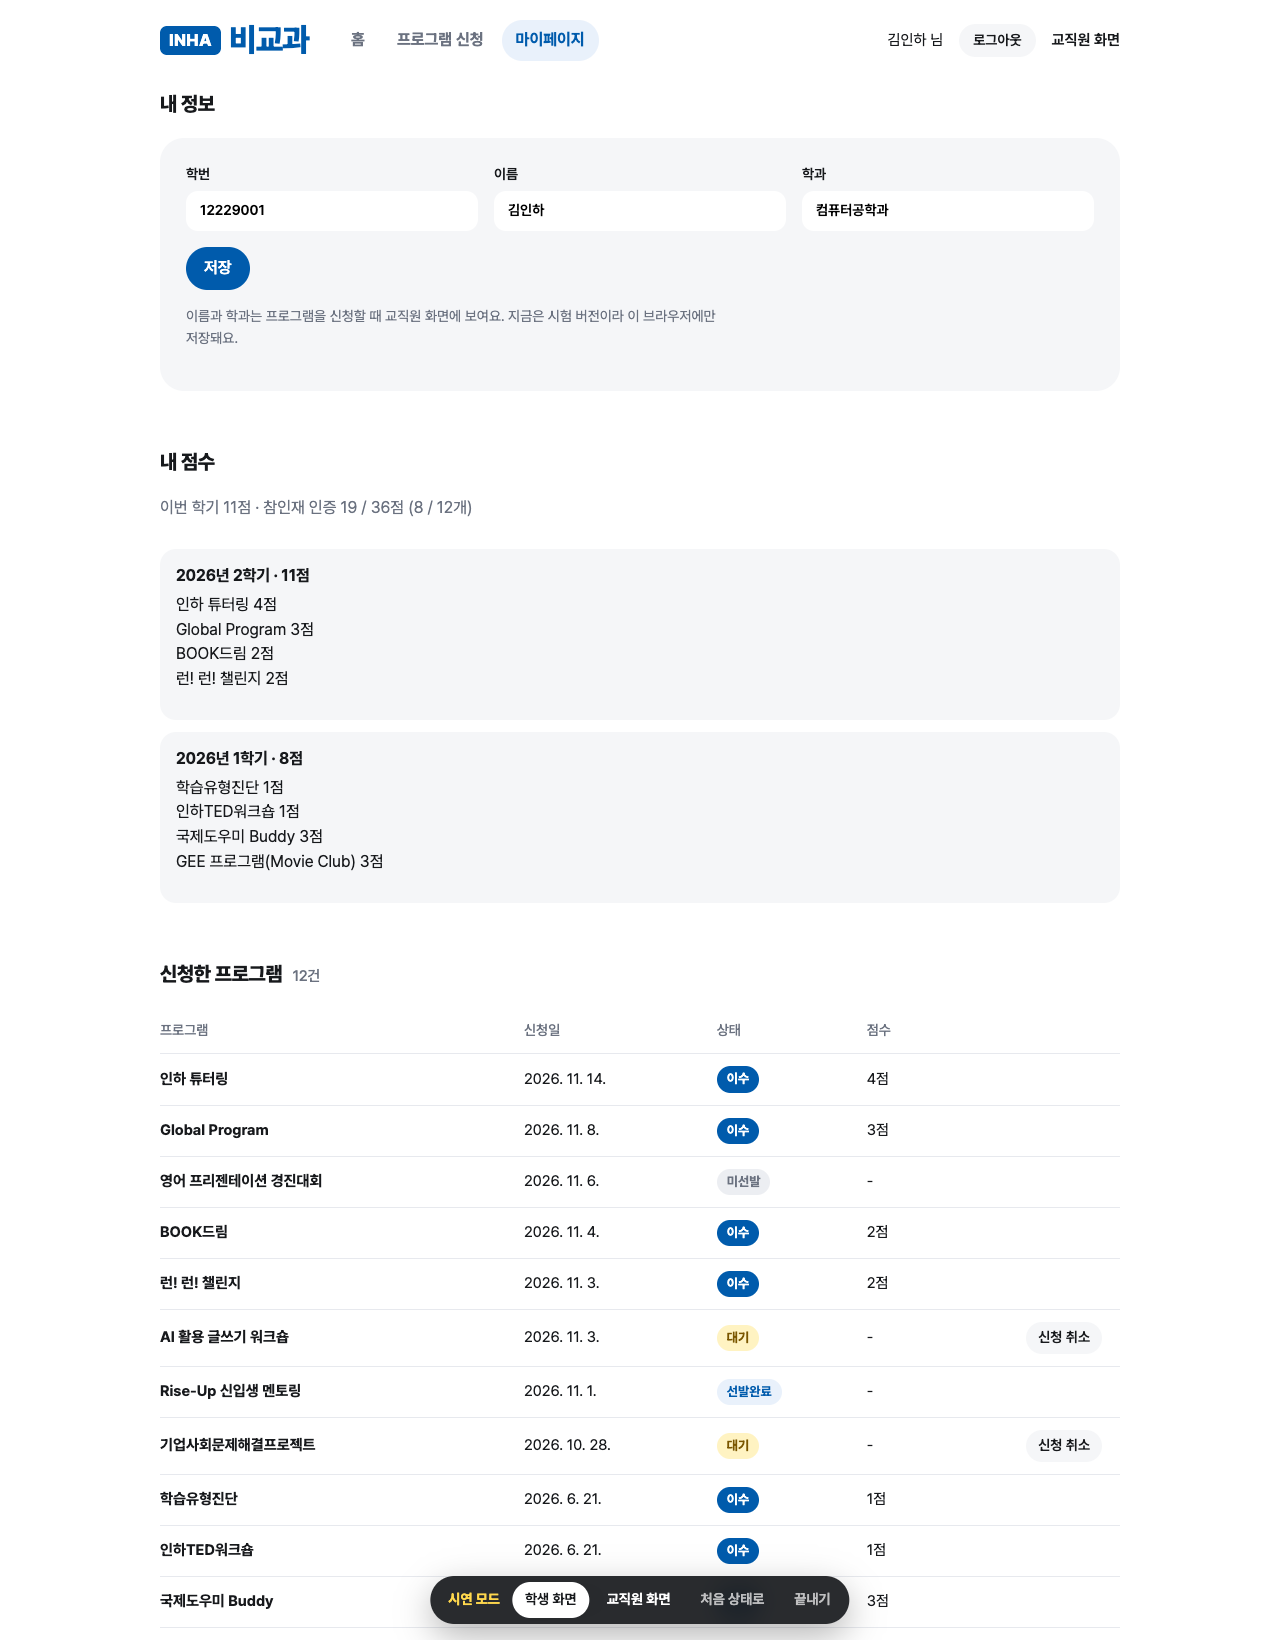
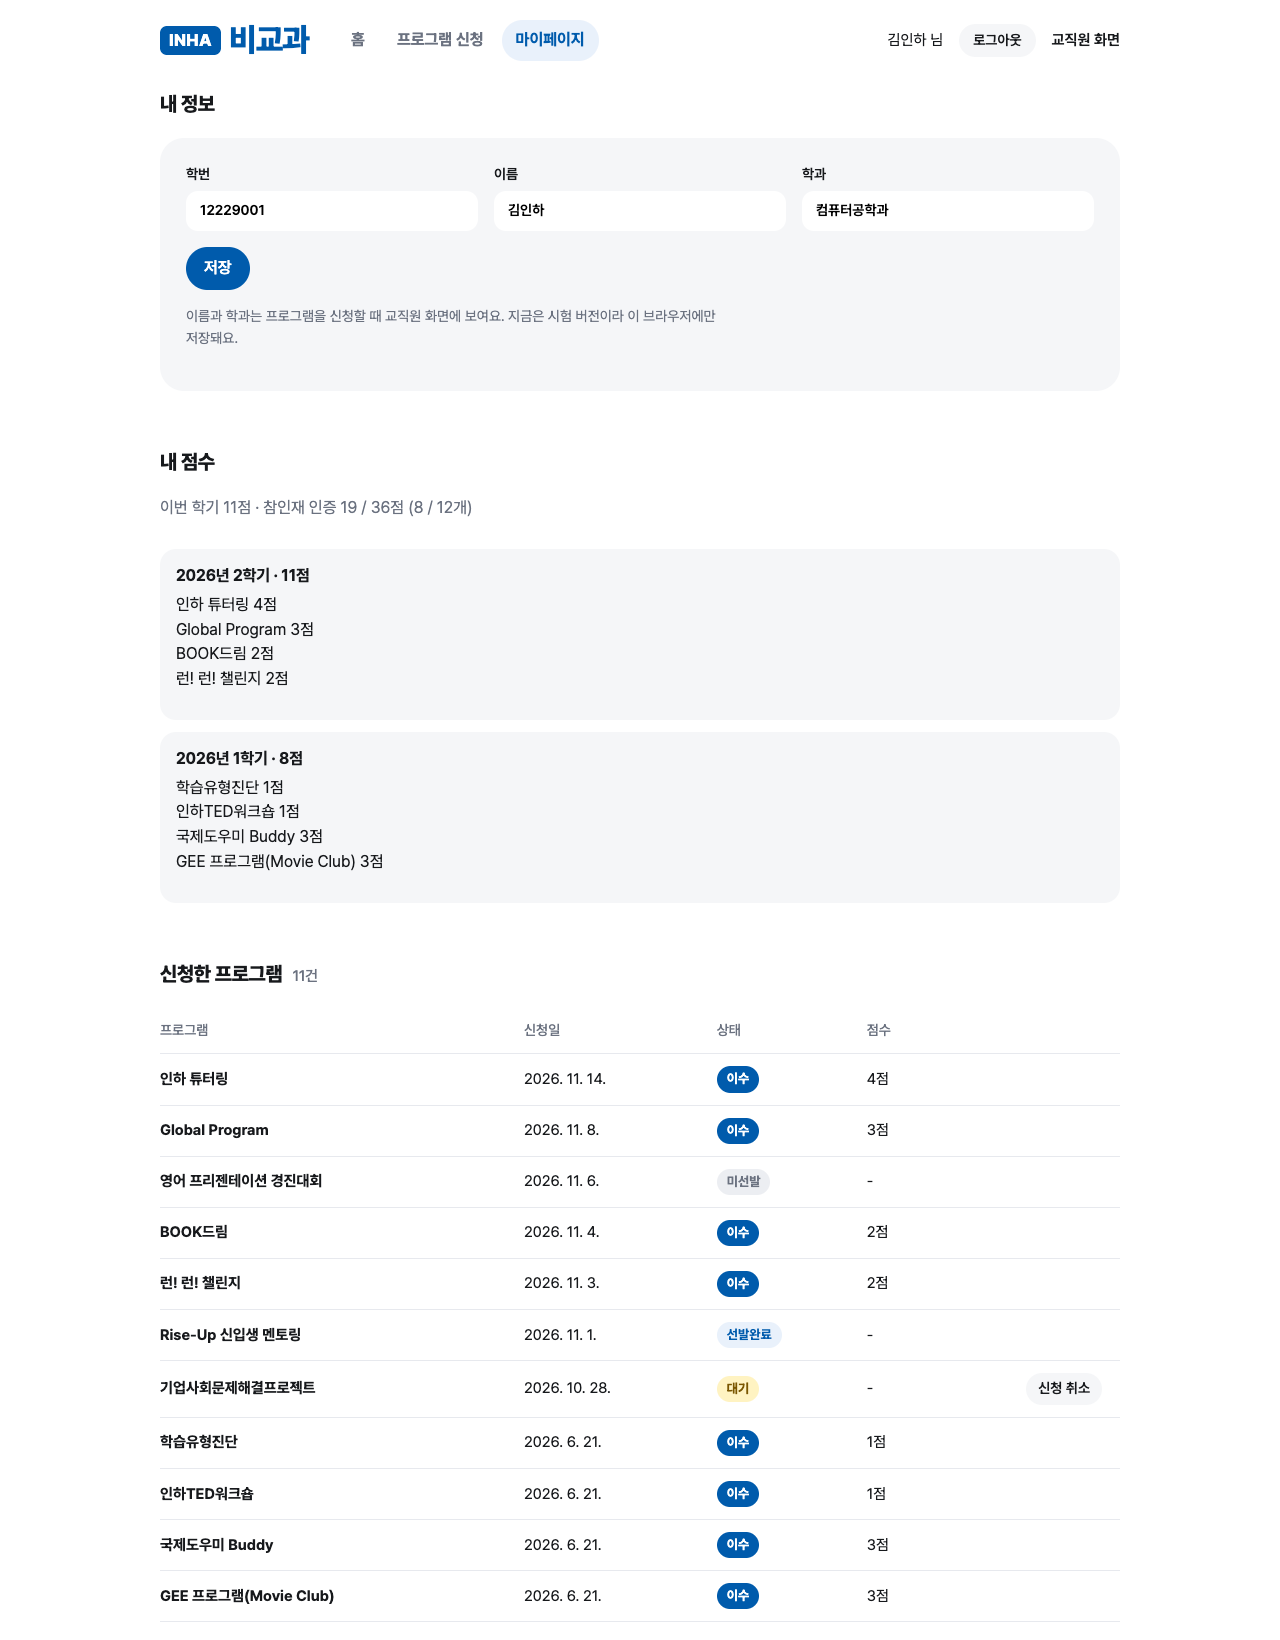
style: 화면 아래 시연 막대 삭제 (화면 전환은 위쪽 줄 링크로)

Changed region(s): [[0.3125, 0.8085, 0.6875, 1.0], [0.125, 0.8085, 0.25, 0.9951], [0.8125, 0.8085, 0.8438, 0.9018]]

diff --git a/js/demo.js b/js/demo.js
@@ -1,5 +1,6 @@
-// 시연 도구 (data.js, logic.js 다음에 불러옴). 학교에 보여줄 때 텅 빈 화면 대신 그럴듯한 예시 데이터로 시작하고,
-// 아래쪽 막대로 학생 화면과 교직원 화면을 오갈 수 있게 함. 전부 이 브라우저에만 저장되는 지어낸 데이터.
+// 시연 도구 (data.js, logic.js 다음에 불러옴). 학교에 보여줄 때 텅 빈 화면 대신 그럴듯한 예시 데이터로 시작함.
+// 시연 학생과 시연 교직원으로 둘 다 로그인돼서, 위쪽 줄의 "교직원 화면" / "학생 화면"으로 오갈 수 있음.
+// 전부 이 브라우저에만 저장되는 지어낸 데이터.
 const DEMO_FLAG = 'inha-demo';
 const DEMO_STUDENT = '12229001';
 const DEMO_STAFF = '20190001';
@@ -84,35 +85,5 @@ function seedDemo() {
   set(CUSTOM_KEY, custom);
 }
 
-function endDemo() {
-  for (const key of [DEMO_FLAG, 'inha-session', 'inha-staff-session', 'inha-staff-profile', 'inha-profiles-v1', 'inha-apply-demo-v1', 'inha-team-posts-v1', CUSTOM_KEY]) localStorage.removeItem(key);
-}
-
-// 시연 중이면 화면 아래에 막대를 붙임 (로그인 화면 제외)
-(() => {
-  let on = false;
-  try { on = Boolean(localStorage.getItem(DEMO_FLAG)); } catch { /* 저장소를 못 쓰면 시연 도구 없음 */ }
-  if (!on || document.body.classList.contains('login')) return;
-  document.body.classList.add('demo');
-  const bar = document.createElement('aside');
-  bar.className = 'demo-bar';
-  bar.setAttribute('aria-label', '시연 도구');
-  const staffSide = location.pathname.endsWith('admin.html');
-  const link = (text, href, current) => {
-    const a = Object.assign(document.createElement('a'), { textContent: text, href });
-    if (current) a.setAttribute('aria-current', 'page');
-    return a;
-  };
-  const button = (text, onClick) => {
-    const b = Object.assign(document.createElement('button'), { type: 'button', textContent: text });
-    b.addEventListener('click', onClick);
-    return b;
-  };
-  bar.append(
-    Object.assign(document.createElement('strong'), { textContent: '시연 모드' }),
-    link('학생 화면', 'index.html', !staffSide),
-    link('교직원 화면', 'admin.html', staffSide),
-    button('처음 상태로', () => { if (confirm('예시 데이터를 처음 상태로 되돌릴까요?')) { seedDemo(); location.reload(); } }),
-    button('끝내기', () => { if (confirm('시연을 끝내고 예시 데이터를 모두 지울까요?')) { endDemo(); location.href = 'login.html'; } }));
-  document.body.append(bar);
-})();
+// 시연 중이면 "시험 버전" 안내문을 숨김 (css의 body.demo). 직접 로그인하면 시연이 끝남(login.html).
+try { if (localStorage.getItem(DEMO_FLAG) && !document.body.classList.contains('login')) document.body.classList.add('demo'); } catch { /* 저장소를 못 쓰면 그대로 */ }

diff --git a/css/style.css b/css/style.css
@@ -238,16 +238,8 @@ tbody tr:hover { background: #fafbfc; }
 #message:empty { display: none; }
 @keyframes drop { from { opacity: 0; transform: translate(-50%, -10px); } }
 
-/* 시연 막대 (js/demo.js) */
-body.demo { padding-bottom: 76px; }
+/* 시연 중에는 "시험 버전" 안내문을 숨김 (js/demo.js) */
 body.demo .notice:not(#demoBanner) { display: none; }
-.demo-bar { position: fixed; left: 50%; bottom: 16px; transform: translateX(-50%); z-index: 30; display: flex; align-items: center; gap: 4px; max-width: calc(100vw - 16px); background: rgb(23 25 28 / .92); color: #fff; border-radius: 999px; padding: 6px 6px 6px 18px; font-size: .875rem; box-shadow: 0 12px 34px rgb(0 0 0 / .28); backdrop-filter: blur(10px); white-space: nowrap; }
-.demo-bar strong { margin-right: 8px; color: #ffd84d; }
-.demo-bar a, .demo-bar button { color: #fff; text-decoration: none; font-weight: 600; font-size: .875rem; background: transparent; border-radius: 999px; padding: 7px 13px; }
-.demo-bar a[aria-current] { background: #fff; color: var(--ink); }
-.demo-bar button { color: rgb(255 255 255 / .7); }
-.demo-bar a:hover, .demo-bar button:hover { background: rgb(255 255 255 / .14); filter: none; }
-.demo-bar a[aria-current]:hover { background: #fff; }
 
 footer { border-top: 1px solid var(--ink); color: var(--sub); font-size: .8125rem; }
 footer div { max-width: 1000px; margin: 0 auto; padding: 28px 20px 48px; }
@@ -299,8 +291,6 @@ footer p { margin: 0 0 8px; max-width: 90ch; }
   .banners, .explains, .explains.two, .steps { grid-template-columns: 1fr; }
   .stats { grid-template-columns: 1fr 1fr; }
   .nav { padding: 10px 16px; margin: -10px -16px 12px; }
-  .demo-bar { padding-left: 12px; }
-  .demo-bar strong { display: none; }
   .menu { order: 3; width: 100%; margin: 0; }
   .shortcuts { grid-template-columns: repeat(4, 1fr); gap: 16px 4px; }
   .icon { width: 56px; height: 56px; }

diff --git a/login.html b/login.html
@@ -5,7 +5,7 @@
 <meta name="viewport" content="width=device-width, initial-scale=1">
 <title>로그인 · 인하 비교과 마일리지</title>
 <link rel="stylesheet" href="https://cdn.jsdelivr.net/gh/orioncactus/pretendard@v1.3.9/dist/web/variable/pretendardvariable-dynamic-subset.min.css">
-<link rel="stylesheet" href="css/style.css?v=28">
+<link rel="stylesheet" href="css/style.css?v=29">
 </head>
 <body class="login">
   <section class="login-art">
@@ -43,9 +43,9 @@
     </form>
   </main>
 
-<script src="js/data.js?v=28"></script>
-<script src="js/logic.js?v=28"></script>
-<script src="js/demo.js?v=28"></script>
+<script src="js/data.js?v=29"></script>
+<script src="js/logic.js?v=29"></script>
+<script src="js/demo.js?v=29"></script>
 <script>
   // shortcut: 진짜 로그인이 아님. 학번(교직원은 사번)만 이 브라우저에 기억하고 비밀번호는 버림. 이름·학과는 마이페이지에서 적음. 서버(Supabase)나 학교 로그인으로 바꿀 때 이 부분을 교체.
   const $ = (id) => document.getElementById(id);
@@ -58,7 +58,8 @@
   $('loginForm').addEventListener('submit', (e) => {
     e.preventDefault();
     const staff = document.querySelector('[name=who]:checked').value === 'staff';
-    try { localStorage.setItem(staff ? 'inha-staff-session' : 'inha-session', $('sid').value.trim()); } catch { /* 저장소를 못 써도 들어가게 함 */ }
+    // 직접 로그인하면 시연은 끝난 것으로 봄
+    try { localStorage.removeItem(DEMO_FLAG); localStorage.setItem(staff ? 'inha-staff-session' : 'inha-session', $('sid').value.trim()); } catch { /* 저장소를 못 써도 들어가게 함 */ }
     location.href = staff ? 'admin.html' : 'index.html';
   });
   // 둘러보기: 예시 데이터를 채우고 시연 학생·교직원으로 바로 들어감 (js/demo.js)

diff --git a/mypage.html b/mypage.html
@@ -5,7 +5,7 @@
 <meta name="viewport" content="width=device-width, initial-scale=1">
 <title>마이페이지 · 인하 비교과 마일리지</title>
 <link rel="stylesheet" href="https://cdn.jsdelivr.net/gh/orioncactus/pretendard@v1.3.9/dist/web/variable/pretendardvariable-dynamic-subset.min.css">
-<link rel="stylesheet" href="css/style.css?v=28">
+<link rel="stylesheet" href="css/style.css?v=29">
 </head>
 <body>
 <main class="my">
@@ -59,12 +59,12 @@
   <ul id="myComments" class="posts" aria-labelledby="comments-title"></ul>
   <p id="commentsEmpty" class="empty">아직 쓴 댓글이 없어요.</p>
 </main>
-<script src="js/data.js?v=28"></script>
-<script src="js/logic.js?v=28"></script>
-<script src="js/demo.js?v=28"></script>
-<script src="js/config.js?v=28"></script>
-<script src="js/board.js?v=28"></script>
-<script src="js/common.js?v=28"></script>
-<script src="js/mypage.js?v=28"></script>
+<script src="js/data.js?v=29"></script>
+<script src="js/logic.js?v=29"></script>
+<script src="js/demo.js?v=29"></script>
+<script src="js/config.js?v=29"></script>
+<script src="js/board.js?v=29"></script>
+<script src="js/common.js?v=29"></script>
+<script src="js/mypage.js?v=29"></script>
 </body>
 </html>

diff --git a/programs.html b/programs.html
@@ -5,7 +5,7 @@
 <meta name="viewport" content="width=device-width, initial-scale=1">
 <title>프로그램 신청 · 인하 비교과 마일리지</title>
 <link rel="stylesheet" href="https://cdn.jsdelivr.net/gh/orioncactus/pretendard@v1.3.9/dist/web/variable/pretendardvariable-dynamic-subset.min.css">
-<link rel="stylesheet" href="css/style.css?v=28">
+<link rel="stylesheet" href="css/style.css?v=29">
 </head>
 <body>
 <main>
@@ -53,12 +53,12 @@
       확정 마일리지는 인하포털 → 학사행정 → 비교과과정에서 확인하세요.</p>
   </div>
 </footer>
-<script src="js/data.js?v=28"></script>
-<script src="js/logic.js?v=28"></script>
-<script src="js/demo.js?v=28"></script>
-<script src="js/config.js?v=28"></script>
-<script src="js/board.js?v=28"></script>
-<script src="js/common.js?v=28"></script>
-<script src="js/programs.js?v=28"></script>
+<script src="js/data.js?v=29"></script>
+<script src="js/logic.js?v=29"></script>
+<script src="js/demo.js?v=29"></script>
+<script src="js/config.js?v=29"></script>
+<script src="js/board.js?v=29"></script>
+<script src="js/common.js?v=29"></script>
+<script src="js/programs.js?v=29"></script>
 </body>
 </html>

diff --git a/index.html b/index.html
@@ -5,7 +5,7 @@
 <meta name="viewport" content="width=device-width, initial-scale=1">
 <title>인하 비교과 마일리지</title>
 <link rel="stylesheet" href="https://cdn.jsdelivr.net/gh/orioncactus/pretendard@v1.3.9/dist/web/variable/pretendardvariable-dynamic-subset.min.css">
-<link rel="stylesheet" href="css/style.css?v=28">
+<link rel="stylesheet" href="css/style.css?v=29">
 </head>
 <body>
 <main>
@@ -163,12 +163,12 @@
       확정 마일리지는 인하포털 → 학사행정 → 비교과과정에서 확인하세요.</p>
   </div>
 </footer>
-<script src="js/data.js?v=28"></script>
-<script src="js/logic.js?v=28"></script>
-<script src="js/demo.js?v=28"></script>
-<script src="js/config.js?v=28"></script>
-<script src="js/board.js?v=28"></script>
-<script src="js/common.js?v=28"></script>
-<script src="js/home.js?v=28"></script>
+<script src="js/data.js?v=29"></script>
+<script src="js/logic.js?v=29"></script>
+<script src="js/demo.js?v=29"></script>
+<script src="js/config.js?v=29"></script>
+<script src="js/board.js?v=29"></script>
+<script src="js/common.js?v=29"></script>
+<script src="js/home.js?v=29"></script>
 </body>
 </html>

diff --git a/team.html b/team.html
@@ -5,7 +5,7 @@
 <meta name="viewport" content="width=device-width, initial-scale=1">
 <title>팀원 구하기 · 인하 비교과 마일리지</title>
 <link rel="stylesheet" href="https://cdn.jsdelivr.net/gh/orioncactus/pretendard@v1.3.9/dist/web/variable/pretendardvariable-dynamic-subset.min.css">
-<link rel="stylesheet" href="css/style.css?v=28">
+<link rel="stylesheet" href="css/style.css?v=29">
 </head>
 <body>
 <main>
@@ -32,11 +32,11 @@
   <ul id="posts" class="posts" aria-labelledby="posts-title"></ul>
   <p id="empty" class="empty">아직 글이 없어요. 첫 글을 써보세요.</p>
 </main>
-<script src="js/data.js?v=28"></script>
-<script src="js/logic.js?v=28"></script>
-<script src="js/demo.js?v=28"></script>
-<script src="js/config.js?v=28"></script>
-<script src="js/board.js?v=28"></script>
-<script src="js/team.js?v=28"></script>
+<script src="js/data.js?v=29"></script>
+<script src="js/logic.js?v=29"></script>
+<script src="js/demo.js?v=29"></script>
+<script src="js/config.js?v=29"></script>
+<script src="js/board.js?v=29"></script>
+<script src="js/team.js?v=29"></script>
 </body>
 </html>

diff --git a/admin.html b/admin.html
@@ -5,7 +5,7 @@
 <meta name="viewport" content="width=device-width, initial-scale=1">
 <title>교직원 화면 (시연용) · 인하 비교과 마일리지</title>
 <link rel="stylesheet" href="https://cdn.jsdelivr.net/gh/orioncactus/pretendard@v1.3.9/dist/web/variable/pretendardvariable-dynamic-subset.min.css">
-<link rel="stylesheet" href="css/style.css?v=28">
+<link rel="stylesheet" href="css/style.css?v=29">
 </head>
 <body>
 <main>
@@ -112,9 +112,9 @@
     <div class="actions" style="margin-top:32px"><button type="button" id="removeProgram" hidden>이 활동 삭제</button></div>
   </section>
 </main>
-<script src="js/data.js?v=28"></script>
-<script src="js/logic.js?v=28"></script>
-<script src="js/demo.js?v=28"></script>
-<script src="js/admin.js?v=28"></script>
+<script src="js/data.js?v=29"></script>
+<script src="js/logic.js?v=29"></script>
+<script src="js/demo.js?v=29"></script>
+<script src="js/admin.js?v=29"></script>
 </body>
 </html>

diff --git a/js/admin.js b/js/admin.js
@@ -214,7 +214,7 @@ if (program) {
     say(`"${name}" 활동을 등록했어요. 학생의 프로그램 신청 화면에 바로 보여요.`);
   });
 
-  // 예시 데이터: 지어낸 학생 9명의 신청·점수·글 (js/demo.js). 시연 막대도 같이 켜짐.
+  // 예시 데이터: 지어낸 학생 9명의 신청·점수·글 (js/demo.js). 시연하다 꼬였을 때 처음 상태로 되돌리는 데도 씀.
   $('seed').addEventListener('click', () => {
     if (!confirm('지금 저장된 신청·글·등록한 활동을 예시 데이터로 바꿀까요?')) return;
     seedDemo();

diff --git a/README.md b/README.md
@@ -28,8 +28,8 @@
 
 로그인 화면의 **학생으로 둘러보기 / 교직원으로 둘러보기**를 누르면 지어낸 학생 9명의 신청·점수·글이 채워진 상태로 바로 들어갑니다.
 
-- 화면 아래 막대로 학생 화면과 교직원 화면을 오갑니다. 교직원이 선발하고 점수를 주면 학생 화면에 바로 반영됩니다.
-- "처음 상태로"는 예시 데이터를 되돌리고, "끝내기"는 모두 지웁니다.
+- 위쪽 줄의 "교직원 화면" / "학생 화면"으로 오갑니다. 교직원이 선발하고 점수를 주면 학생 화면에 바로 반영됩니다.
+- 처음 상태로 되돌리려면 교직원 화면 아래의 "예시 데이터 채우기"를 누릅니다.
 - 예시 데이터는 이 브라우저에만 저장됩니다.
 
 ## 화면
@@ -57,7 +57,7 @@
 │   ├── logic.js       마일리지 계산
 │   ├── config.js      게시판 서버(Supabase) 주소와 공개 키. 비어 있으면 서버 없이 동작
 │   ├── board.js       팀원 구하기 글·댓글 저장 (서버 또는 이 브라우저)
-│   ├── demo.js        시연 모드: 예시 데이터와 화면 전환 막대
+│   ├── demo.js        시연 모드: 예시 데이터
 │   ├── common.js      로그인 확인·저장 (홈·신청 화면 공용)
 │   ├── home.js  programs.js  mypage.js  team.js  admin.js   화면별 코드
 │   └── test.js        검사
